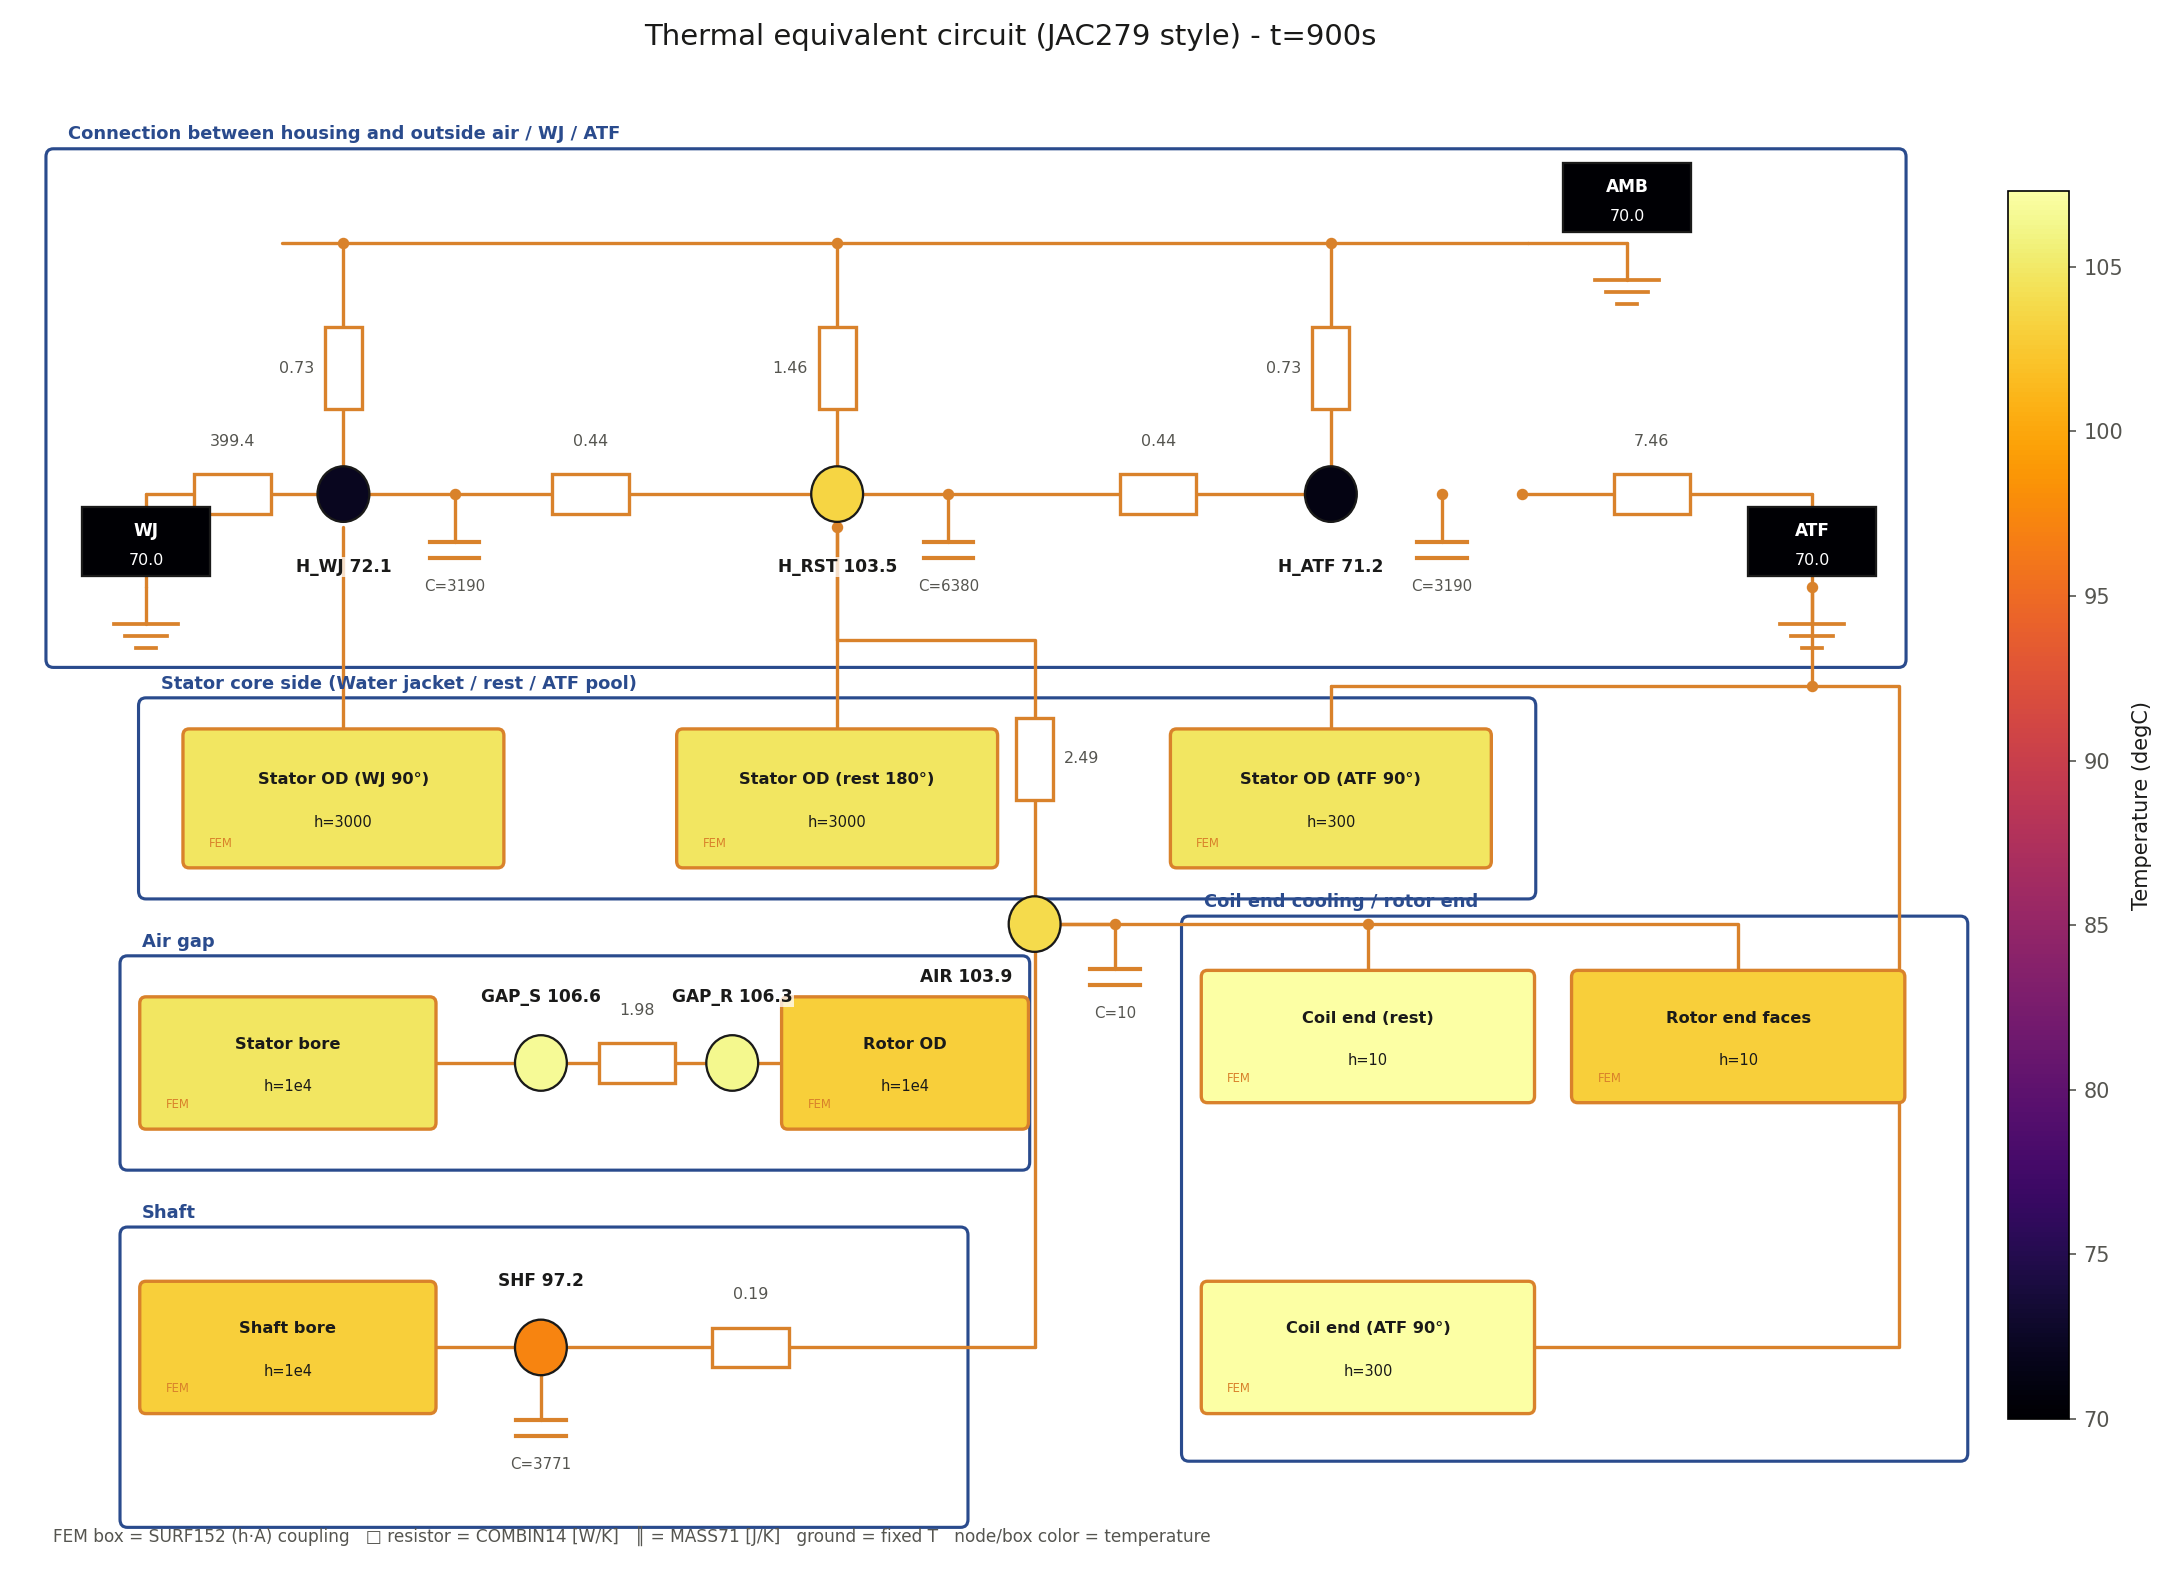
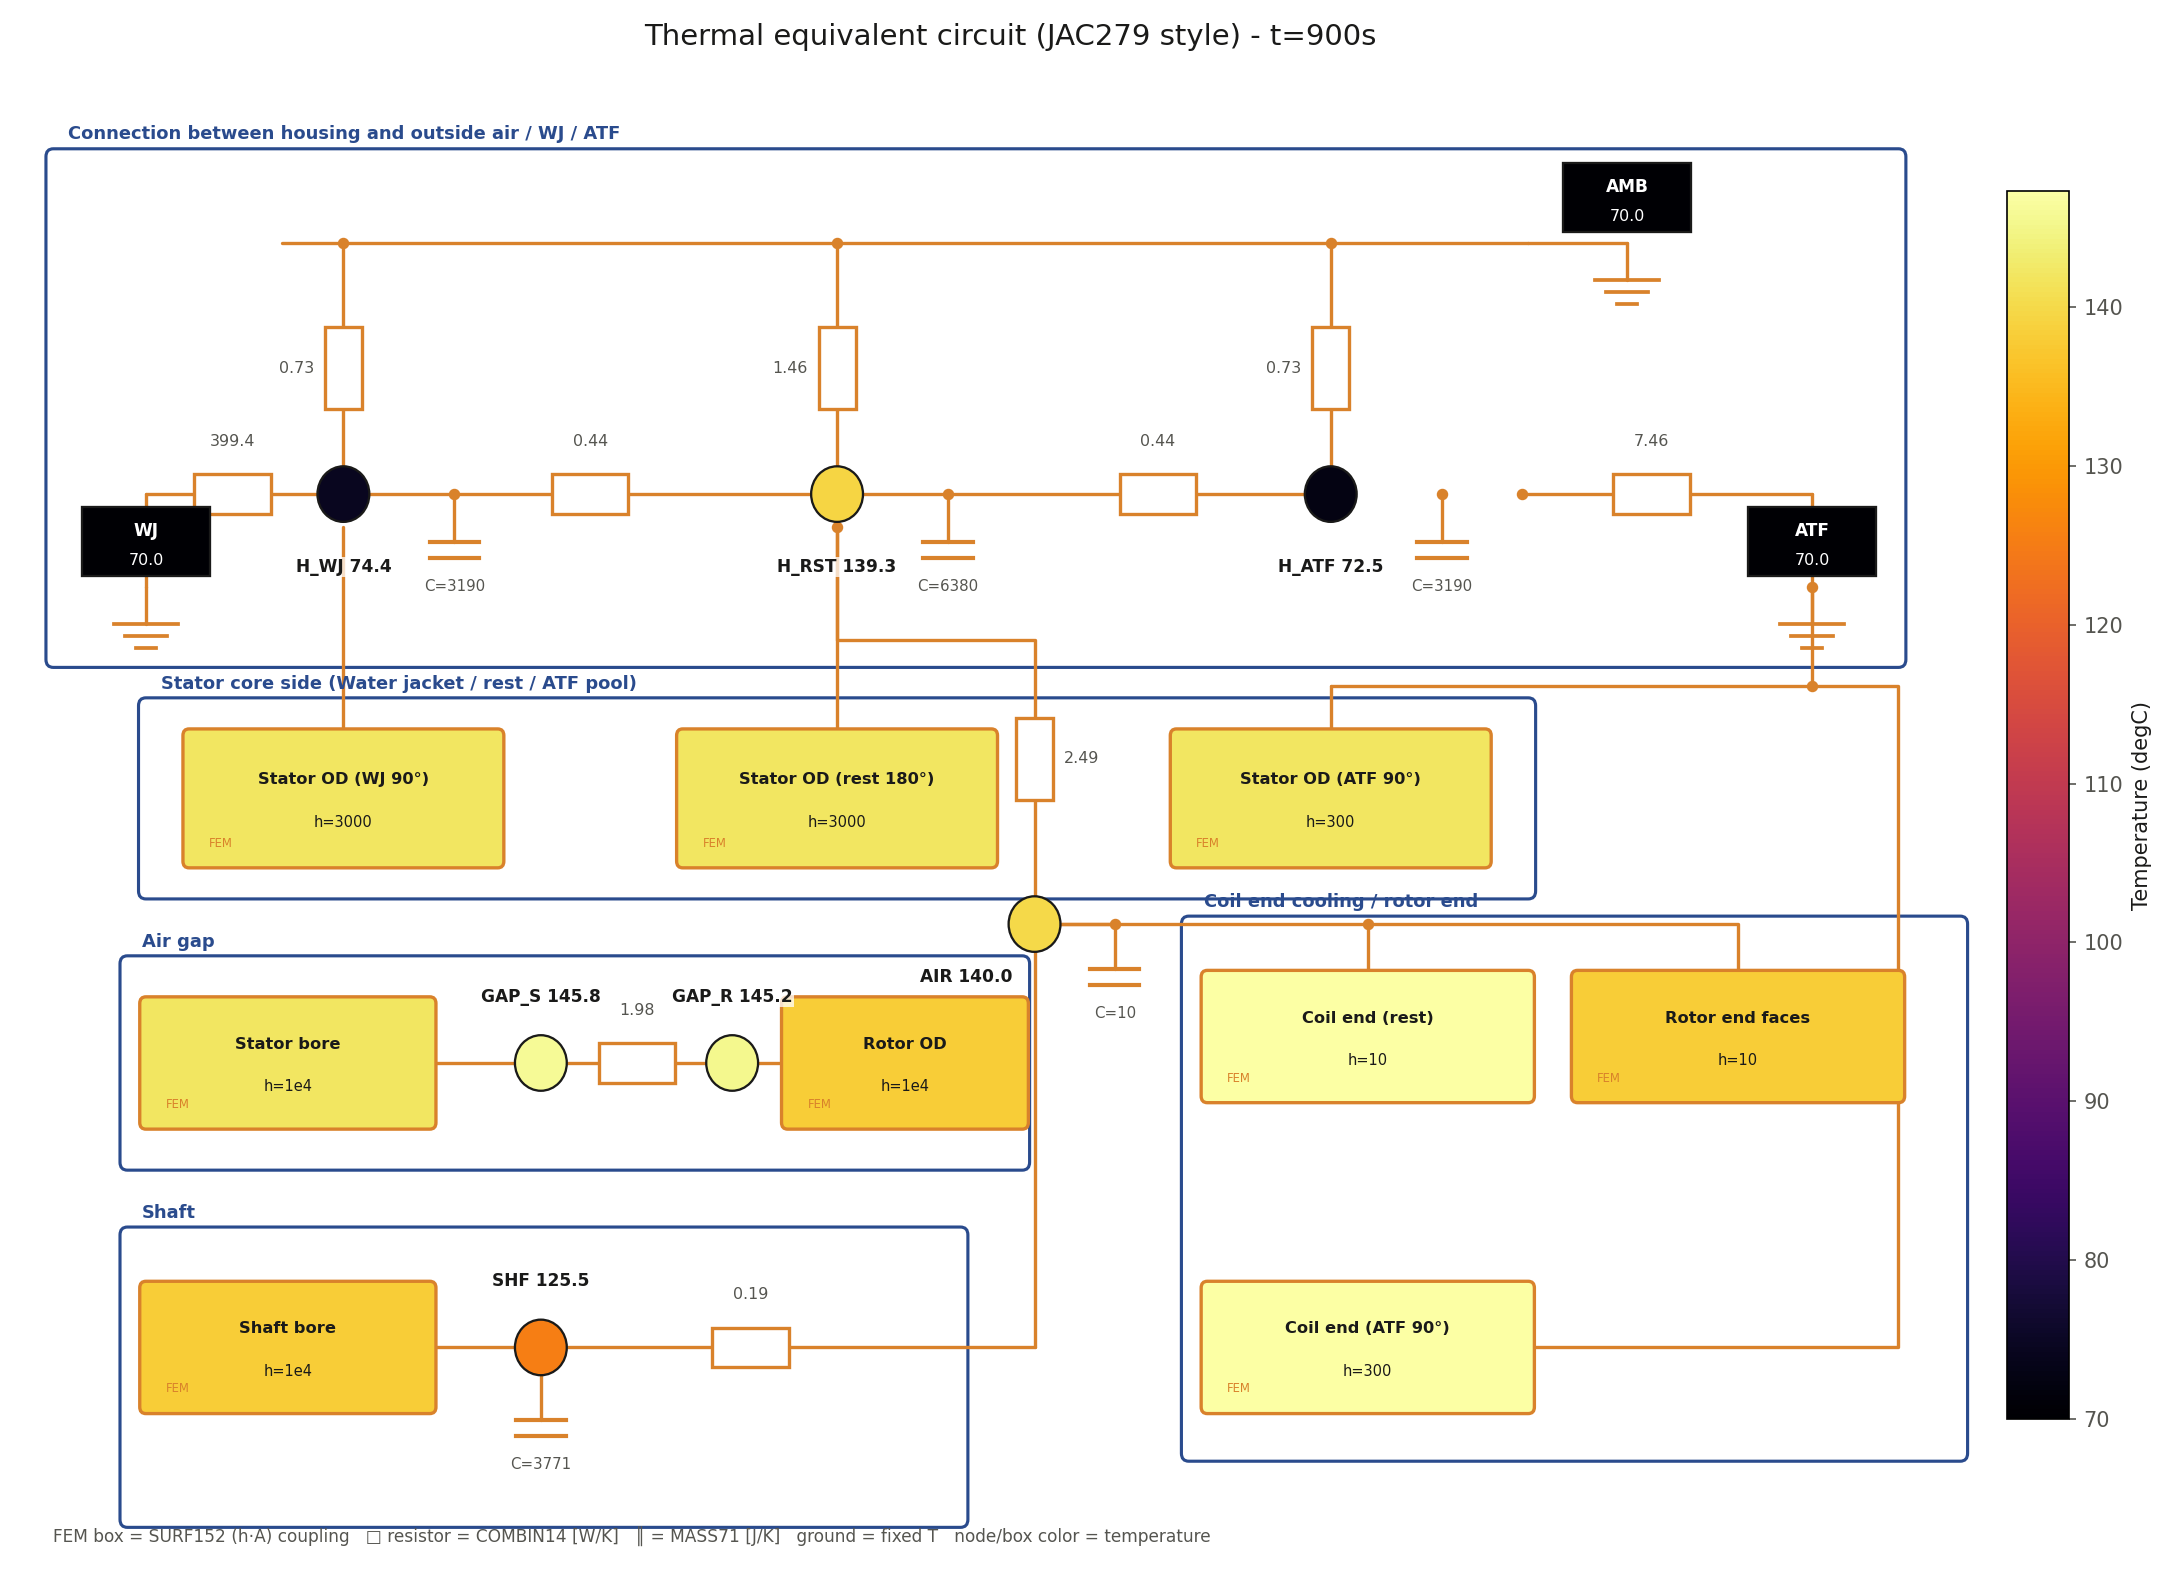
[THERMAL] Maxwell 3D 실손실 채택 - beta 옵션 해제 후 3D transient 해석 성공
사용자가 GUI Beta Options 에서 Classic Parallel Recovery 해제 후 3D 해석 완료.
PE1.2 방식(1.875~3.75ms 평균) 손실 추출, 배수 SymmetryFactor(8)x(1+HalfAxial)=16:
  동손 2637.2W(엔드와인딩 포함) / 스테이터철손 1145.8W / 로터철손 59.7W / 자석 0.32W
named expression(x8)x2 교차검증 일치. 초기메시 해석이라 철손 과대평가 유의.

3D 손실 열해석(900s): 코일 147~152C
  Center_WJ 140.4 < Center_ATF 146.8 / Tip_ATF 143.8 < Tip_WJ 148.9
회로: H_WJ 74.4 / H_ATF 72.5 / H_RST 139.3 / AIR 140.0 / SHF 125.5
maxwell_losses.json 에 2D/3D 모두 기록(active=3D), 시각화 전체 재생성.

diff --git a/mlxperPJT/thermal/CONTEXT_jac279_thermal.md b/mlxperPJT/thermal/CONTEXT_jac279_thermal.md
@@ -110,23 +110,27 @@ CAD 경로 대상이 **`Electric_Motor_IcepakFEA_AEDT_3D_part1`** 로 변경됨
 
 ### 4c. Maxwell 손실 확보 경로 (2026-07-16 확정)
 
-**결론: 손실은 Maxwell 2D 에서 추출** (`Electric_Motor_Mechanical_AEDT_2D_part1`,
-JAC279 원문도 사전 자계해석은 2D). 후반 주기 평균, `maxwell_losses.json`:
+**최종: Maxwell 3D 손실 채택** (`Electric_Motor_IcepakFEA_AEDT`, PE1.2 방식
+1.875~3.75 ms 시간평균). 배수 = `SymmetryFactor(8)×(1+HalfAxial)=16` (리포트 자동반영).
+검증: named expression(×8 필드적분)×2 = 리포트값 정확 일치. `maxwell_losses.json`:
 
-| 손실 | Maxwell 2D [W] | JAC279 예시 [W] |
-| --- | --- | --- |
-| 코일 동손 (StrandedLoss) | 1233.4 | 1004 |
-| 스테이터 철손 | 580.7 | 880 |
-| 로터 철손 | 41.7 | 65 |
-| 자석 (SolidLoss) | 4.6 | 71 (2D는 자석 와전류 과소평가 경향) |
+| 손실 (full machine) | **3D [W]** | 2D [W] | JAC279 예시 |
+| --- | --- | --- | --- |
+| 코일 동손 (StrandedLoss) | **2637.2** | 1233.4 | 1004 |
+| 스테이터 철손 | **1145.8** | 580.7 | 880 |
+| 로터 철손 | **59.7** | 41.7 | 65 |
+| 자석 (SolidLoss) | **0.32** | 4.6 | 71 |
 
-**3D transient (`Electric_Motor_IcepakFEA_AEDT`) 는 v261 에서 해석 불가** —
-`"Matching boundary not supported in Classic Parallel Recovery"`:
-주기경계(master/slave)와 v261 기본활성 CPR 기능의 충돌. 시도한 우회 전부 실패:
-① Ansoft Classic 메셔 전환 ② `CylindricalGap1` 메시연산 삭제(→G3dMesher 크래시는
-이걸로 해결됨) ③ serial(cores=1) ④ 새 세션 ⑤ 내부 플래그 `CPRIsEnabled`
-(솔버 바이너리에서 확인)를 env/cmu.env 로 주입. **GUI Beta Options 에서
-"Classic Parallel Recovery" 해제 후에만 3D 재시도 가치 있음.**
+- 3D 동손이 2D의 2.1배: **3D는 실제 엔드와인딩 도체 포함** (2D는 슬롯부만)
+- ⚠ 3D는 **초기메시** 해석 → 철손 과대평가 가능. 정밀시 메시 수렴 후 6B 재추출
+- 자석손실이 미미한 것은 1.5° 세그먼트(36슬라이스) 효과
+
+**3D 해석 차단 이슈 (해결됨)**: v261 기본활성 "Classic Parallel Recovery"
+(내부 `CPRIsEnabled`, 솔버 바이너리에서 확인)가 주기경계와 충돌 —
+`"Matching boundary not supported in Classic Parallel Recovery"`.
+프로그램적 우회 전부 실패(메셔 전환/CylindricalGap 삭제→G3dMesher 크래시는 해결/
+serial/새 세션/env·cmu.env 주입). **GUI Beta Options 에서 해제 후 해석 성공**
+(사용자 수행, 2026-07-16 16:12, 결과 384MB).
 
 ## 5. 실행 방법
 
